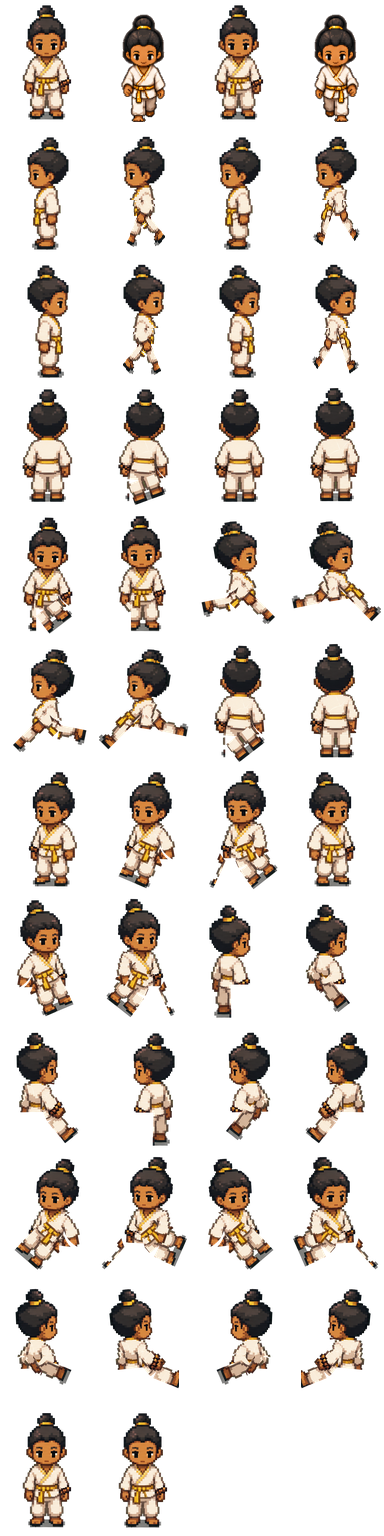
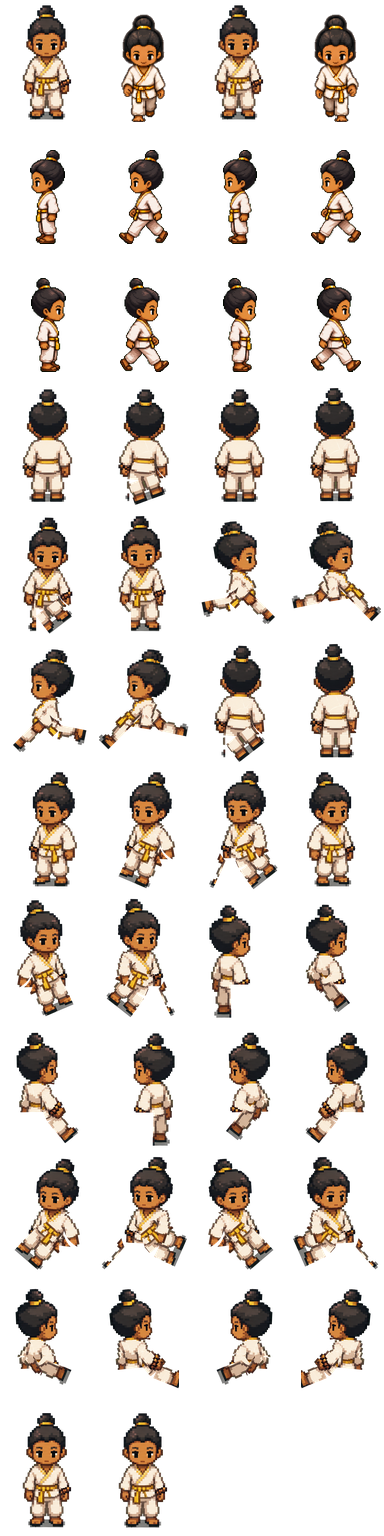
Battle UI: standalone upper-right action menu + dorin sheet rebuild
- windows.ts/BattleScene.ts: action menu is its own upper-right box
  (menuX/menuTopY) bounded so it never covers a hero bust or rises into
  the enemy zone; foes lay out to its left.
- assets/art: rebuild dorin 46-frame sheet from user-provided green
  frames (+ review previews).

diff --git a/src/scenes/BattleScene.ts b/src/scenes/BattleScene.ts
@@ -431,12 +431,10 @@ export class BattleScene extends Phaser.Scene {
 
   create(): void {
     this.dlg = new Dialogue(this);
-    // The command/submenu menus right-align over the party strip. The §S11 busts
-    // poke ~s(30) above the cards (which start at y s(168)), so anchor every battle
-    // menu's BOTTOM just above the bust tops — otherwise the rightmost hero's FACE
-    // sits under the menu (reported). With a top message box (not a bottom one),
-    // the menu grows UP into the clear column right of it, so all command options
-    // still fit without pagination.
+    // The action menu is a SEPARATE box at the upper-right (clear of the party
+    // cards so it never blends into them) anchored just above the bust tops so it
+    // covers no hero face; foes are laid out to its left (buildEnemies) so none is
+    // hidden behind it. The party busts stay visible the whole time.
     this.dlg.menuBottomY = s(168) - s(32);
     this.fx = new BattleFx(this);
     this.stage = new StageView(this);
@@ -704,17 +702,15 @@ export class BattleScene extends Phaser.Scene {
     const letters = ['A', 'B', 'C', 'D', 'E'];
     const dupes = new Map<string, number>();
     ids.forEach((id) => dupes.set(id, (dupes.get(id) ?? 0) + 1));
-    // ADR-107: anchor each foe's FACE just below the message window (the box is
-    // makeWindow(6,6,268,56) → bottom y62) so the intro never covers it. Only
-    // TALL sprites get pushed down, and never past the party HP cards (y168);
-    // a sprite too big to clear both keeps its face-priority bias (rare bosses).
+    // ADR-107: anchor each foe's FACE just below the message window (box bottom y62)
+    // so the intro never covers it; foes never ride over the party cards (y168).
     const TEXTBOX_BOTTOM = s(62);
-    const ENEMY_TOP = TEXTBOX_BOTTOM + s(2); // a breath of clearance under the box
-    const ENEMY_FLOOR = s(166); //              the party HP cards begin at y168
-    // Keep every foe clear of the right-hand command menu (it right-aligns up to
+    const ENEMY_TOP = TEXTBOX_BOTTOM + s(2);
+    const ENEMY_FLOOR = s(166);
+    // Keep every foe clear of the upper-right action menu (it right-aligns up to
     // ~s(90) wide) so a foe is never hidden behind the action box. A lone foe/boss
-    // centers on the full screen — it clears the column on its own and stays
-    // dramatic; two or more share equal slots in the BATTLEFIELD to the left of the
+    // centers on the full screen (it clears the column on its own and stays
+    // dramatic); two or more share equal slots in the BATTLEFIELD to the left of the
     // column, each capped to its slot, so a five-wide gang fits without overlapping
     // itself or sliding under the menu.
     const n = ids.length;
@@ -727,9 +723,9 @@ export class BattleScene extends Phaser.Scene {
       const x = Math.round(fieldL + slotW * (i + 0.5));
       const spr = this.add.image(x, 0, def.sprite).setOrigin(0.5, 0.5);
       this.fitEnemySprite(spr, def, n, slotW - s(8));
-      // bosses still bias a touch lower (their crown is the read — S7 the Tick),
-      // then everyone is pushed down JUST enough for the sprite top to clear the
-      // message box, capped so the body never rides over the party cards.
+      // bosses bias a touch lower (their crown is the read — S7 the Tick), then
+      // everyone is pushed down JUST enough for the sprite top to clear the message
+      // box, capped so the body never rides over the party cards.
       const half = spr.displayHeight / 2;
       const y = Math.round(Math.min(ENEMY_FLOOR - half, Math.max(def.boss ? s(97) : s(92), ENEMY_TOP + half)));
       spr.setY(y);
@@ -773,7 +769,7 @@ export class BattleScene extends Phaser.Scene {
     // texture dims, so the ratio (and the no-upscale clamp at 1) is invariant — the
     // setScale multiplier STAYS, the texture itself carries the 4× (SCALE_CONVENTION).
     // slotMaxW additionally caps a foe to its share of the battlefield, so a crowded
-    // row neither overlaps itself nor spills under the command menu.
+    // row neither overlaps itself nor spills under the action menu.
     const seatCap = def.boss ? s(132) : seats >= 4 ? s(70) : seats >= 3 ? s(86) : s(112);
     const maxW = Math.min(seatCap, slotMaxW);
     const maxH = def.boss ? s(104) : s(92);

diff --git a/src/ui/windows.ts b/src/ui/windows.ts
@@ -334,14 +334,17 @@ export class Dialogue {
     const rowH = s(ROW_H); // ROW_H is native px (paginate.ts); pitch in runtime px
     const iconPad = opts.icons?.some((k) => k !== undefined) ? s(13) : 0;
     const w = Math.max(...options.map((o) => o.length)) * s(6) + s(36) + iconPad;
-    const x = W - w - s(10);
+    const x = this.menuX ?? W - w - s(10);
     // The menu's bottom edge — 4px above the H-66 dialogue box — is the fixed
-    // anchor; AUTO-FIT how many rows fit above it (a 4px top margin + the 16px
-    // frame padding reserved), and PAGINATE the rest. The frame is sized to
-    // perPage (== min(length, fitRows)) so a fitting list keeps the exact old
-    // compact height — h = length*rowH + 16 — and a uniform frame across pages.
+    // anchor; AUTO-FIT how many rows fit above it (a top margin + the 16px frame
+    // padding reserved), and PAGINATE the rest. The frame is sized to perPage
+    // (== min(length, fitRows)) so a fitting list keeps the exact old compact
+    // height — h = length*rowH + 16 — and a uniform frame across pages. menuTopY
+    // (battle's bottom band) bounds how tall the menu may grow so it never rises
+    // into the enemy zone — it paginates instead.
     const menuBottom = this.menuBottomY ?? scene.scale.height - s(66) - s(4);
-    const fitRows = Math.max(1, Math.floor((menuBottom - s(4) - s(16)) / rowH));
+    const menuTop = this.menuTopY ?? s(4);
+    const fitRows = Math.max(1, Math.floor((menuBottom - menuTop - s(16)) / rowH));
     const { perPage, pages } = paginate(options.length, 1, fitRows);
     const h = perPage * rowH + s(16);
     const y = menuBottom - h; // == scene.scale.height - 66 - h - 4 (the original)
